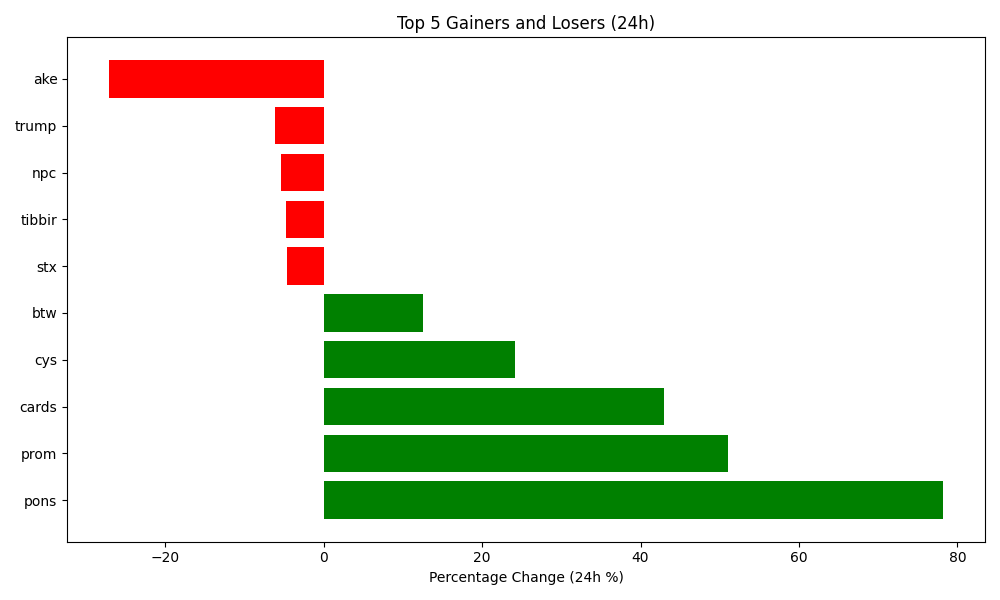
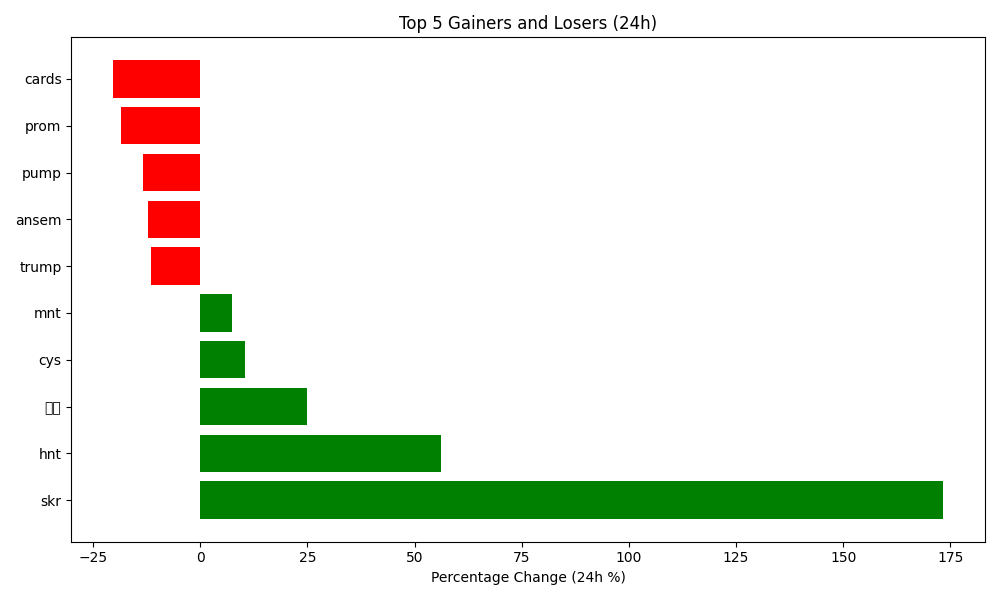
Auto-update crypto data and plot

diff --git a/README.md b/README.md
@@ -4,7 +4,7 @@ Author: Hitesh Agrawal
 This repository automatically tracks the top 5 gaining, top 5 losing, and top 5 highest volume cryptocurrencies in the last 24 hours using the CoinGecko API, Python, Matplotlib, and GitHub Actions updates the below content everyday at midnight.
 
 <!-- START_DYNAMIC_CONTENT -->
-Last updated: 2026-08-30 02:51 UTC
+Last updated: 2026-08-31 02:44 UTC
 
 ![Crypto Movers Plot](crypto_movers_plot.png)
 
@@ -12,33 +12,33 @@ Last updated: 2026-08-30 02:51 UTC
 
 | Rank | Coin | Price Change (24h %) | Volume (USD) | Current Price (USD) |
 | :--: | :--: | :------------------: | :----------: | :-----------------: |
-| 1 | pons | 78.22% | $44,927,957 | $0.2751 |
-| 2 | prom | 51.06% | $67,198,358 | $7.5000 |
-| 3 | cards | 42.90% | $13,267,622 | $0.2475 |
-| 4 | cys | 24.18% | $18,808,359 | $0.7548 |
-| 5 | btw | 12.52% | $13,490,396 | $0.4457 |
+| 1 | skr | 173.41% | $331,981,916 | $0.0327 |
+| 2 | hnt | 56.07% | $216,454,556 | $0.7167 |
+| 3 | 牛来 | 24.95% | $108,562,985 | $0.1100 |
+| 4 | cys | 10.43% | $23,583,442 | $0.8396 |
+| 5 | mnt | 7.43% | $39,364,111 | $0.5559 |
 
 
 **👇 Top 5 Losers (24h)**
 
 | Rank | Coin | Price Change (24h %) | Volume (USD) | Current Price (USD) |
 | :--: | :--: | :------------------: | :----------: | :-----------------: |
-| 1 | ake | -27.12% | $43,084,311 | $0.0081 |
-| 2 | trump | -6.08% | $626,840,107 | $2.6400 |
-| 3 | npc | -5.43% | $2,844,726 | $0.0173 |
-| 4 | tibbir | -4.77% | $1,627,758 | $0.2766 |
-| 5 | stx | -4.66% | $18,434,490 | $0.2400 |
+| 1 | cards | -20.44% | $6,719,172 | $0.1970 |
+| 2 | prom | -18.63% | $94,883,547 | $6.3900 |
+| 3 | pump | -13.42% | $180,647,438 | $0.0044 |
+| 4 | ansem | -12.31% | $10,316,417 | $0.3083 |
+| 5 | trump | -11.49% | $333,133,660 | $2.3500 |
 
 
 **💎 Top 5 by Trade Volume (24h)**
 
 | Rank | Coin | Price Change (24h %) | Volume (USD) | Current Price (USD) |
 | :--: | :--: | :------------------: | :----------: | :-----------------: |
-| 1 | usdt | -0.00% | $28,003,935,954 | $1.0000 |
-| 2 | btc | 0.59% | $14,641,048,540 | $78,095.0000 |
-| 3 | usdc | -0.00% | $7,046,119,687 | $1.0000 |
-| 4 | eth | 0.71% | $5,380,691,419 | $2,455.3400 |
-| 5 | sol | 1.36% | $2,213,681,472 | $105.2400 |
+| 1 | usdt | -0.02% | $40,367,615,812 | $0.9998 |
+| 2 | btc | -0.49% | $20,815,559,898 | $77,726.0000 |
+| 3 | eth | -1.75% | $11,980,608,072 | $2,412.9800 |
+| 4 | usdc | -0.02% | $9,924,084,964 | $0.9998 |
+| 5 | sol | -3.28% | $3,113,273,645 | $101.9100 |
 
 
 <!-- END_DYNAMIC_CONTENT -->
